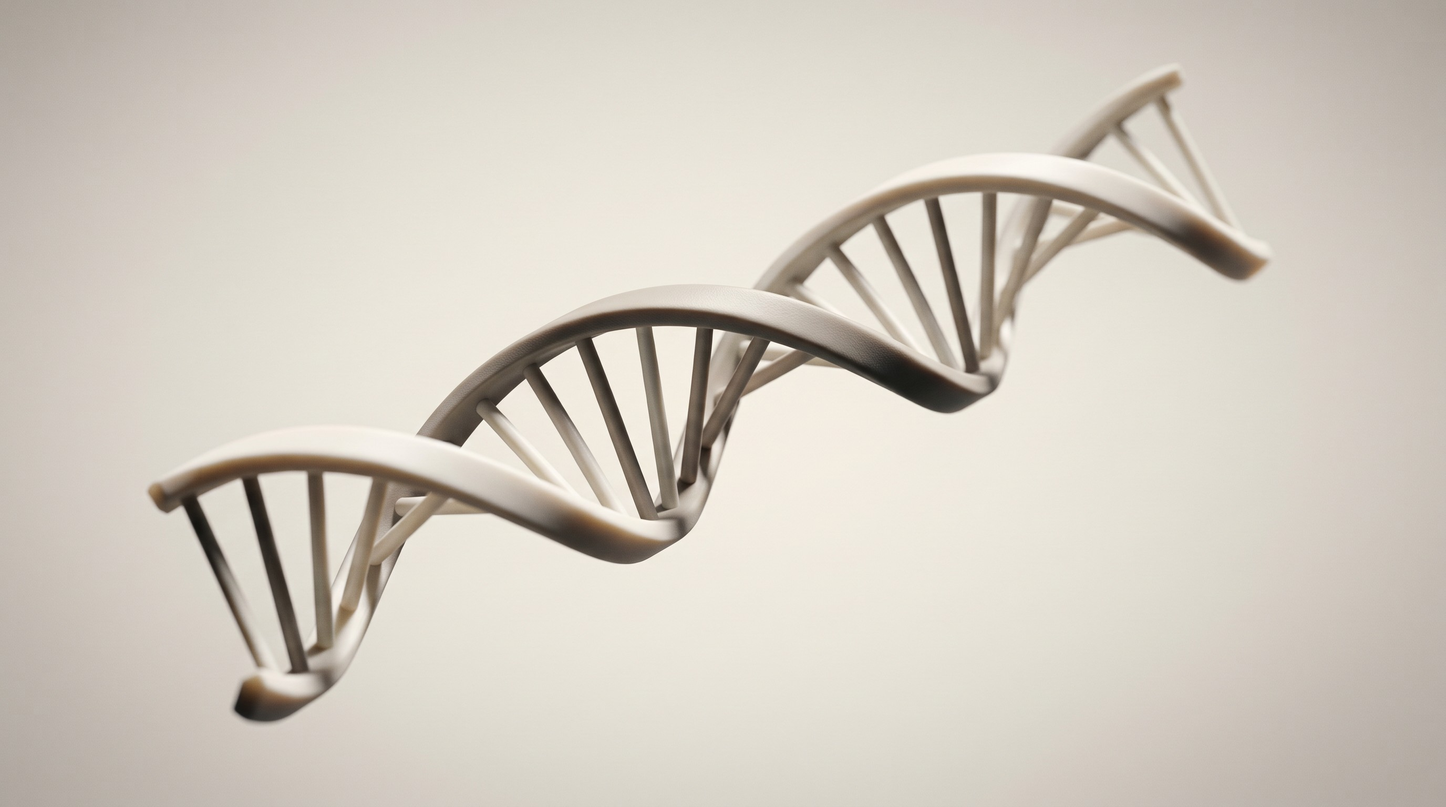
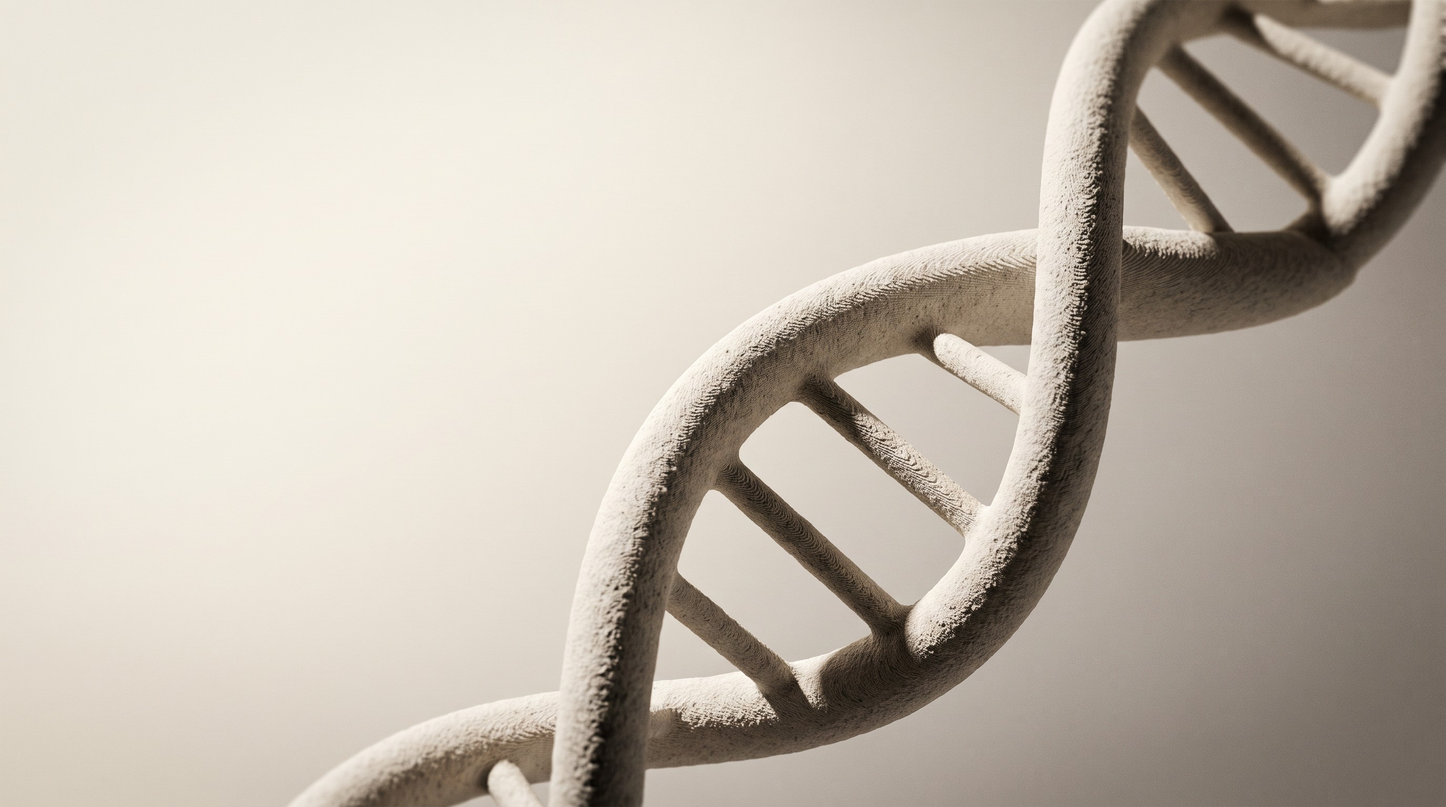
Full-bleed textured DNA hero with on-image connected callouts
Two changes based on feedback against the deployed version. The image
now spans the entire hero as a true background (position:absolute inset:0,
object-fit:cover) rather than sitting in a bounded card beside the text --
a left-to-right scrim gradient keeps the headline and search box readable
regardless of where the crop lands, fading to fully transparent by the
point where the helix itself starts.

Regenerated the DNA render with an explicit rough/grainy surface texture
(unglazed-ceramic-like, visible micro-texture) instead of the smoother
matte plastic of the previous version, and composed so the helix occupies
the right two-thirds of the frame with the left third left plainer for
text to sit on.

The three stat callouts now anchor with a small dot marker plus a short
leader tick directly at real coordinates on the visible helix (estimated
by eye against this specific generated image), rather than floating in a
separate side panel disconnected from the image -- closer to the
reference's actual annotation style. Numbers are still populated live
from index.json/validation.json, unchanged from before.

Verified via DOM inspection (getBoundingClientRect, computed styles) after
the browser pane's screenshot capture proved unreliable again this
session -- confirmed hero/callout pixel positions, dot rendering, and
scrim gradient all compute correctly.

diff --git a/web/style.css b/web/style.css
@@ -20,28 +20,32 @@ body{
 .wrap.wide{max-width:var(--wrap-wide)}
 a{color:var(--accent)}
 
-/* ---------- hero (light) ---------- */
-.hero{background:var(--bg); overflow:hidden}
-.navrow{display:flex; justify-content:space-between; align-items:center; padding:26px 0 0}
-.brand{font-weight:600; font-size:15px; letter-spacing:.01em}
-.herocount{font-size:12px; color:var(--ink2); border:1px solid var(--line2);
+/* ---------- hero (light, full-bleed) ---------- */
+.hero{position:relative; overflow:hidden; min-height:600px; display:flex; flex-direction:column}
+.hero-media{position:absolute; inset:0; width:100%; height:100%; object-fit:cover;
+  object-position:58% center; z-index:0}
+.hero-scrim{position:absolute; inset:0; z-index:1;
+  background:linear-gradient(100deg, var(--bg) 0%, var(--bg) 30%, rgba(247,243,234,.72) 42%, rgba(247,243,234,0) 58%)}
+.navrow{position:relative; z-index:3; display:flex; justify-content:space-between; align-items:center; padding:26px 0 0}
+.brand{font-weight:600; font-size:15px; letter-spacing:.01em; color:var(--ink)}
+.herocount{font-size:12px; color:var(--ink2); border:1px solid var(--line2); background:var(--bg);
   padding:6px 14px; border-radius:999px; white-space:nowrap}
 
-.herogrid{display:grid; grid-template-columns:1.05fr .95fr; gap:38px; align-items:center;
-  padding:34px 0 50px}
-.herotext h1{margin:0 0 14px; font-size:44px; font-weight:600; letter-spacing:-.02em; line-height:1.09}
-.herotext .tagline{margin:0 0 28px; color:var(--ink2); font-size:17px; max-width:440px; line-height:1.55}
+.herocontent{position:relative; z-index:3; flex:1; display:flex; align-items:center; padding:26px 0 70px}
+.herotext{max-width:440px}
+.herotext h1{margin:0 0 14px; font-size:44px; font-weight:600; letter-spacing:-.02em; line-height:1.09; color:var(--ink)}
+.herotext .tagline{margin:0 0 28px; color:var(--ink2); font-size:17px; line-height:1.55}
 
-.heroimg{position:relative}
-.heroimg img{width:100%; height:auto; display:block; border-radius:16px}
-.callout{position:absolute; font-size:12px; text-align:left; pointer-events:none}
-.callout .lead{width:1px; height:24px; background:var(--ink); opacity:.45; margin:0 0 6px}
+.callout{position:absolute; z-index:3; font-size:12px; text-align:left; pointer-events:none;
+  display:flex; flex-direction:column; align-items:flex-start}
+.callout .dot{width:6px; height:6px; border-radius:50%; background:var(--ink); flex:none}
+.callout .lead{width:1px; height:20px; background:var(--ink); opacity:.5; margin:2px 0 6px}
 .callout .cnum{display:block; font-size:16px; font-weight:600; color:var(--ink); line-height:1.15}
 .callout .clabel{display:block; color:var(--ink2); font-size:11px; white-space:nowrap; margin-top:1px}
-.c1{left:2%; top:6%}
-.c2{right:4%; top:10%; text-align:right}
-.c2 .lead{margin-left:auto}
-.c3{left:44%; bottom:6%}
+.callout.down{flex-direction:column-reverse; align-items:flex-start}
+.callout.down .lead{margin:6px 0 2px}
+.callout.down .clabel{margin:0 0 1px}
+.callout.right{align-items:flex-end; text-align:right}
 
 /* ---------- search + chips (light) ---------- */
 .searchrow{position:relative; margin:0 0 14px; max-width:480px}
@@ -152,8 +156,10 @@ table.mini th{color:var(--ink); font-weight:500}
 .foot .meta{color:var(--ink3); font-size:13px}
 
 @media (max-width:820px){
-  .herogrid{grid-template-columns:1fr; padding:26px 0 34px}
-  .heroimg{order:-1}
+  .hero{min-height:520px}
+  .hero-media{object-position:70% center}
+  .hero-scrim{background:linear-gradient(100deg, var(--bg) 0%, var(--bg) 52%, rgba(247,243,234,.75) 66%, rgba(247,243,234,.15) 100%)}
+  .herotext{max-width:none}
   .herotext h1{font-size:34px}
   .callout{display:none}
 }

diff --git a/web/index.html b/web/index.html
@@ -13,12 +13,15 @@
 <body>
 
 <header class="hero">
+  <img class="hero-media" src="assets/dna-hero.jpg" alt="Textured 3D render of a DNA double helix">
+  <div class="hero-scrim"></div>
+
   <div class="wrap wide navrow">
     <span class="brand">Off the shelf</span>
     <span class="herocount" id="heroCount">2,549 diseases scored</span>
   </div>
 
-  <div class="wrap wide herogrid">
+  <div class="wrap wide herocontent">
     <div class="herotext">
       <h1>Old drugs.<br>Diseases nobody's<br>tried them on.</h1>
       <p class="tagline">Type a disease. Get ranked, already-approved drugs, each with the exact biological path connecting it to that disease.</p>
@@ -33,25 +36,22 @@
 
       <div id="chips" class="chips"></div>
     </div>
+  </div>
 
-    <div class="heroimg">
-      <img src="assets/dna-hero.jpg" alt="3D render of a DNA double helix">
-      <div class="callout c1">
-        <span class="lead"></span>
-        <span class="cnum" id="statDiseases">—</span>
-        <span class="clabel">diseases scored</span>
-      </div>
-      <div class="callout c2">
-        <span class="lead"></span>
-        <span class="cnum" id="statPairs">—</span>
-        <span class="clabel">known pairs tested</span>
-      </div>
-      <div class="callout c3">
-        <span class="lead"></span>
-        <span class="cnum" id="statRare">—</span>
-        <span class="clabel">rare-disease median</span>
-      </div>
-    </div>
+  <div class="callout c1" style="left:87%; top:6%;">
+    <span class="dot"></span><span class="lead"></span>
+    <span class="cnum" id="statDiseases">—</span>
+    <span class="clabel">diseases scored</span>
+  </div>
+  <div class="callout c2 down" style="left:64%; top:44%;">
+    <span class="dot"></span><span class="lead"></span>
+    <span class="cnum" id="statPairs">—</span>
+    <span class="clabel">known pairs tested</span>
+  </div>
+  <div class="callout c3 down right" style="left:44%; top:80%;">
+    <span class="dot"></span><span class="lead"></span>
+    <span class="cnum" id="statRare">—</span>
+    <span class="clabel">rare-disease median</span>
   </div>
 </header>
 
